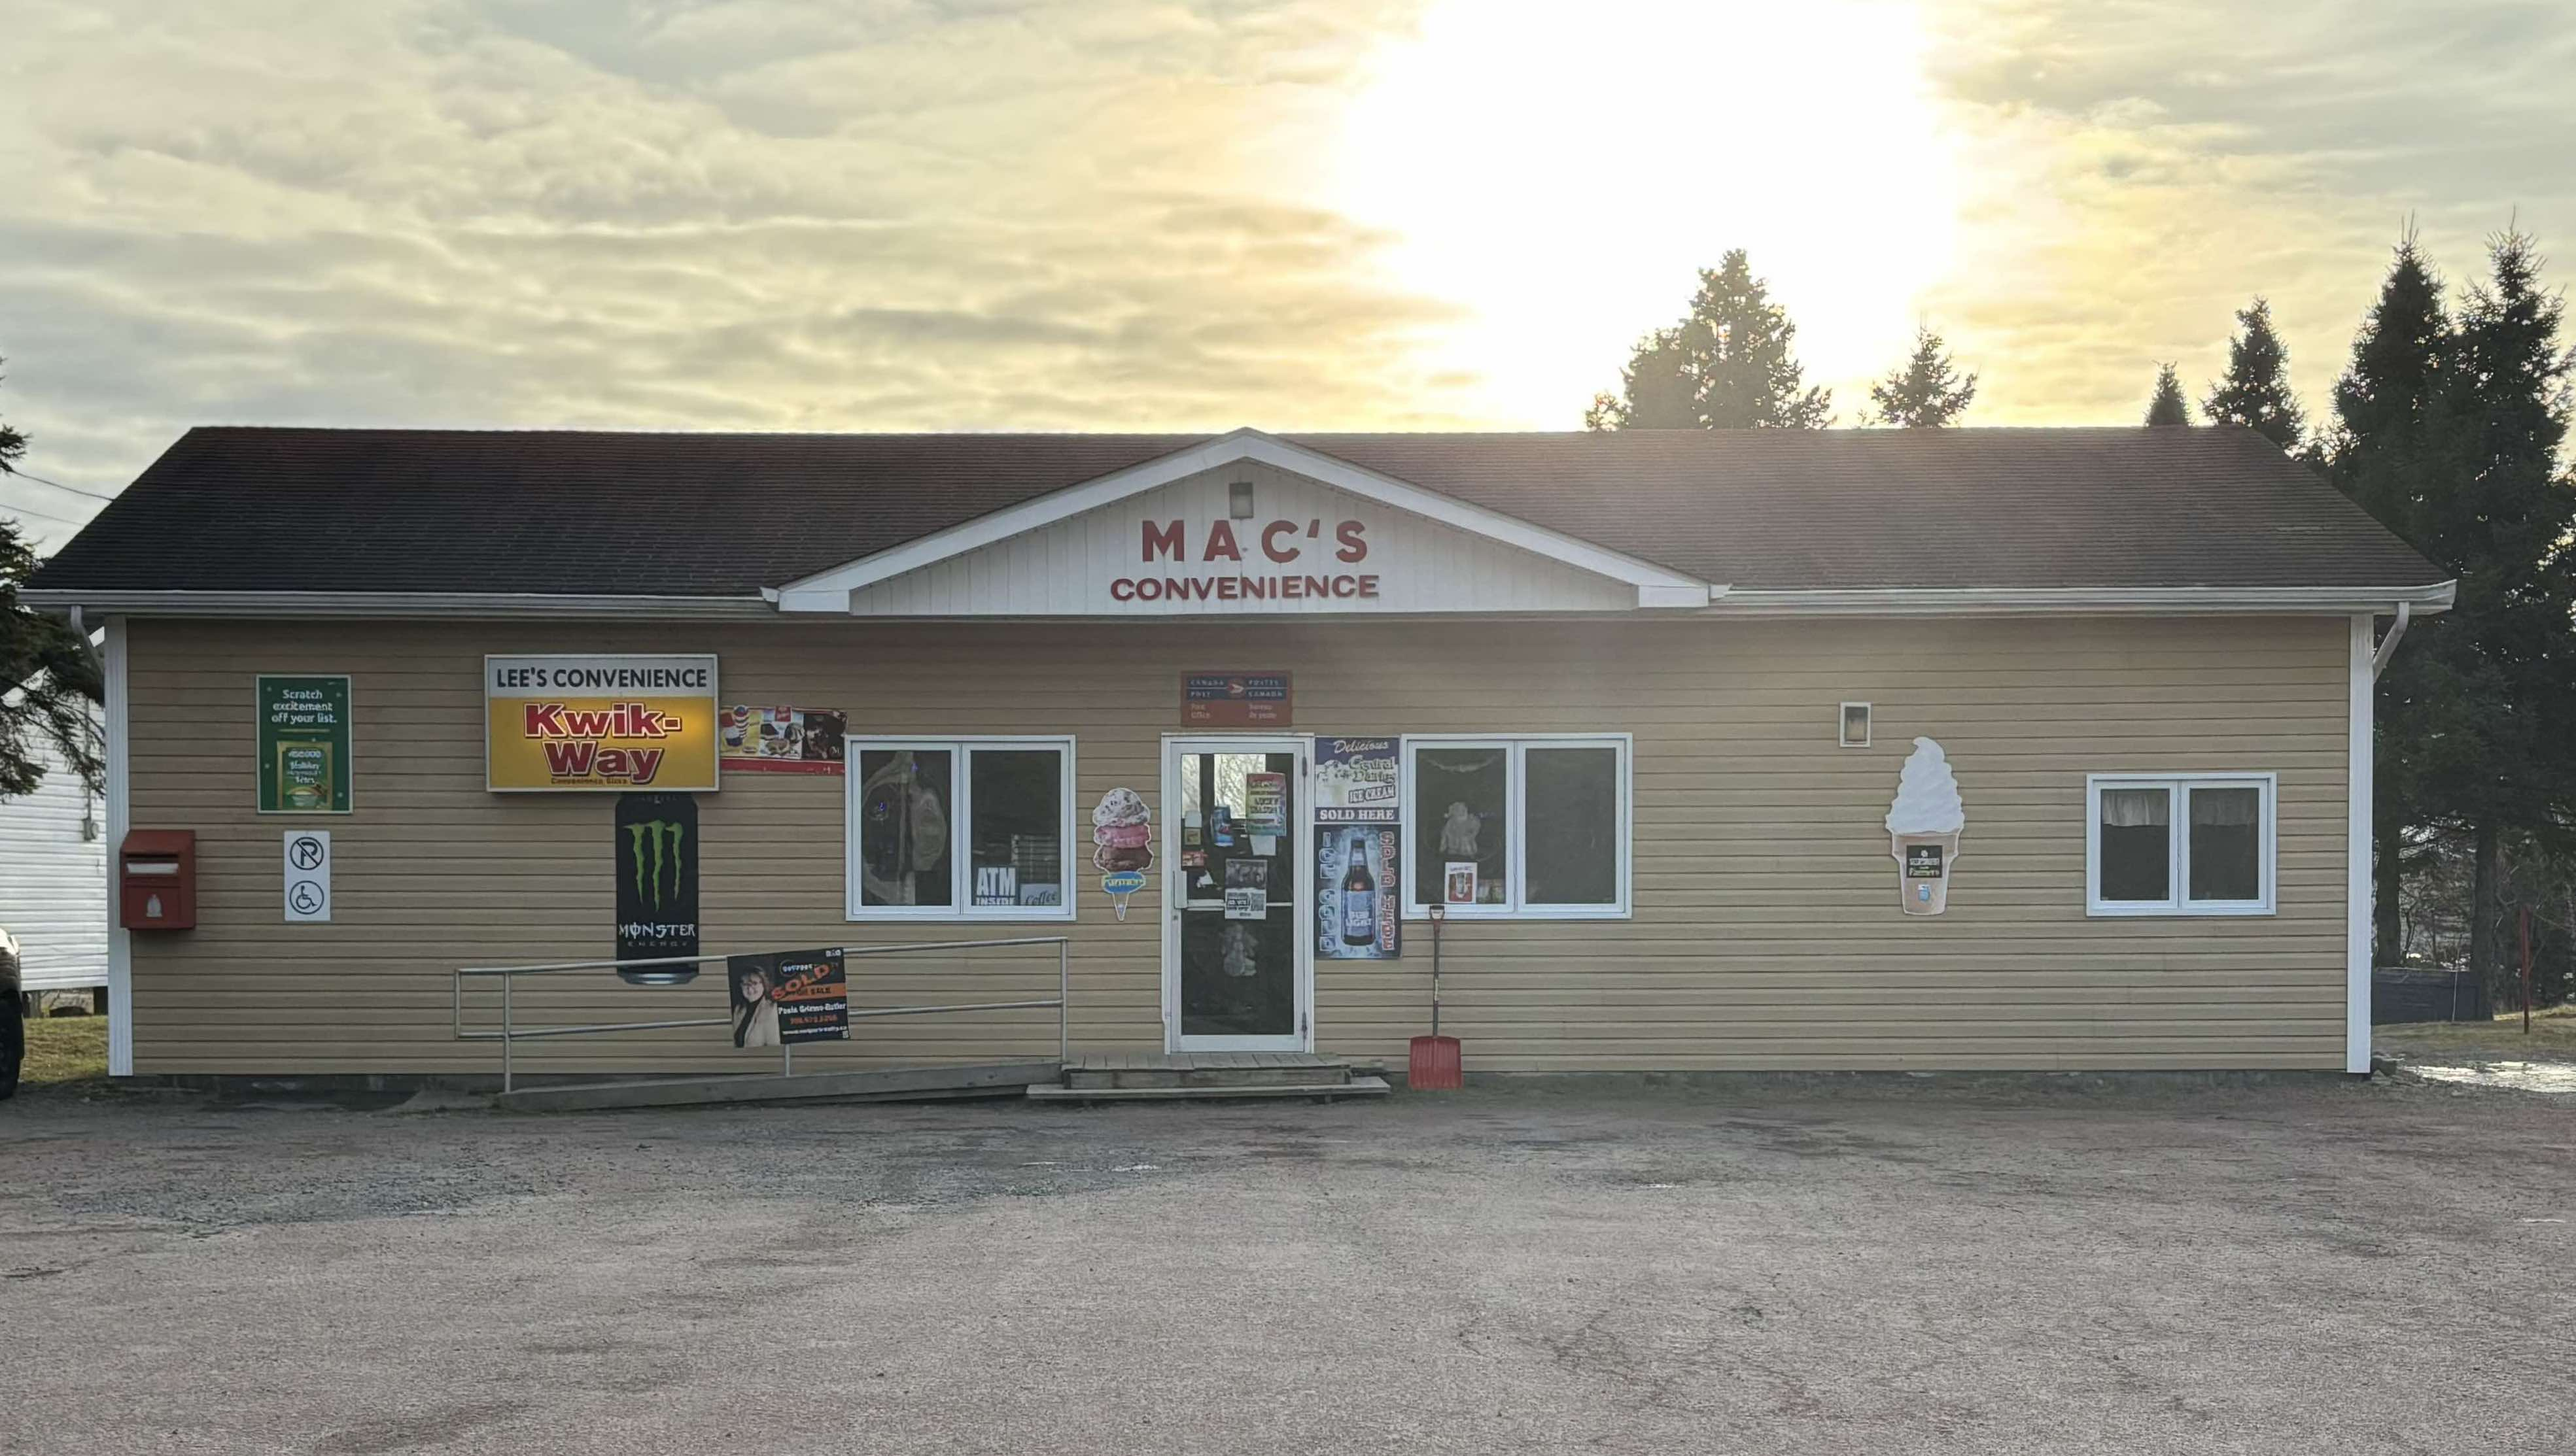
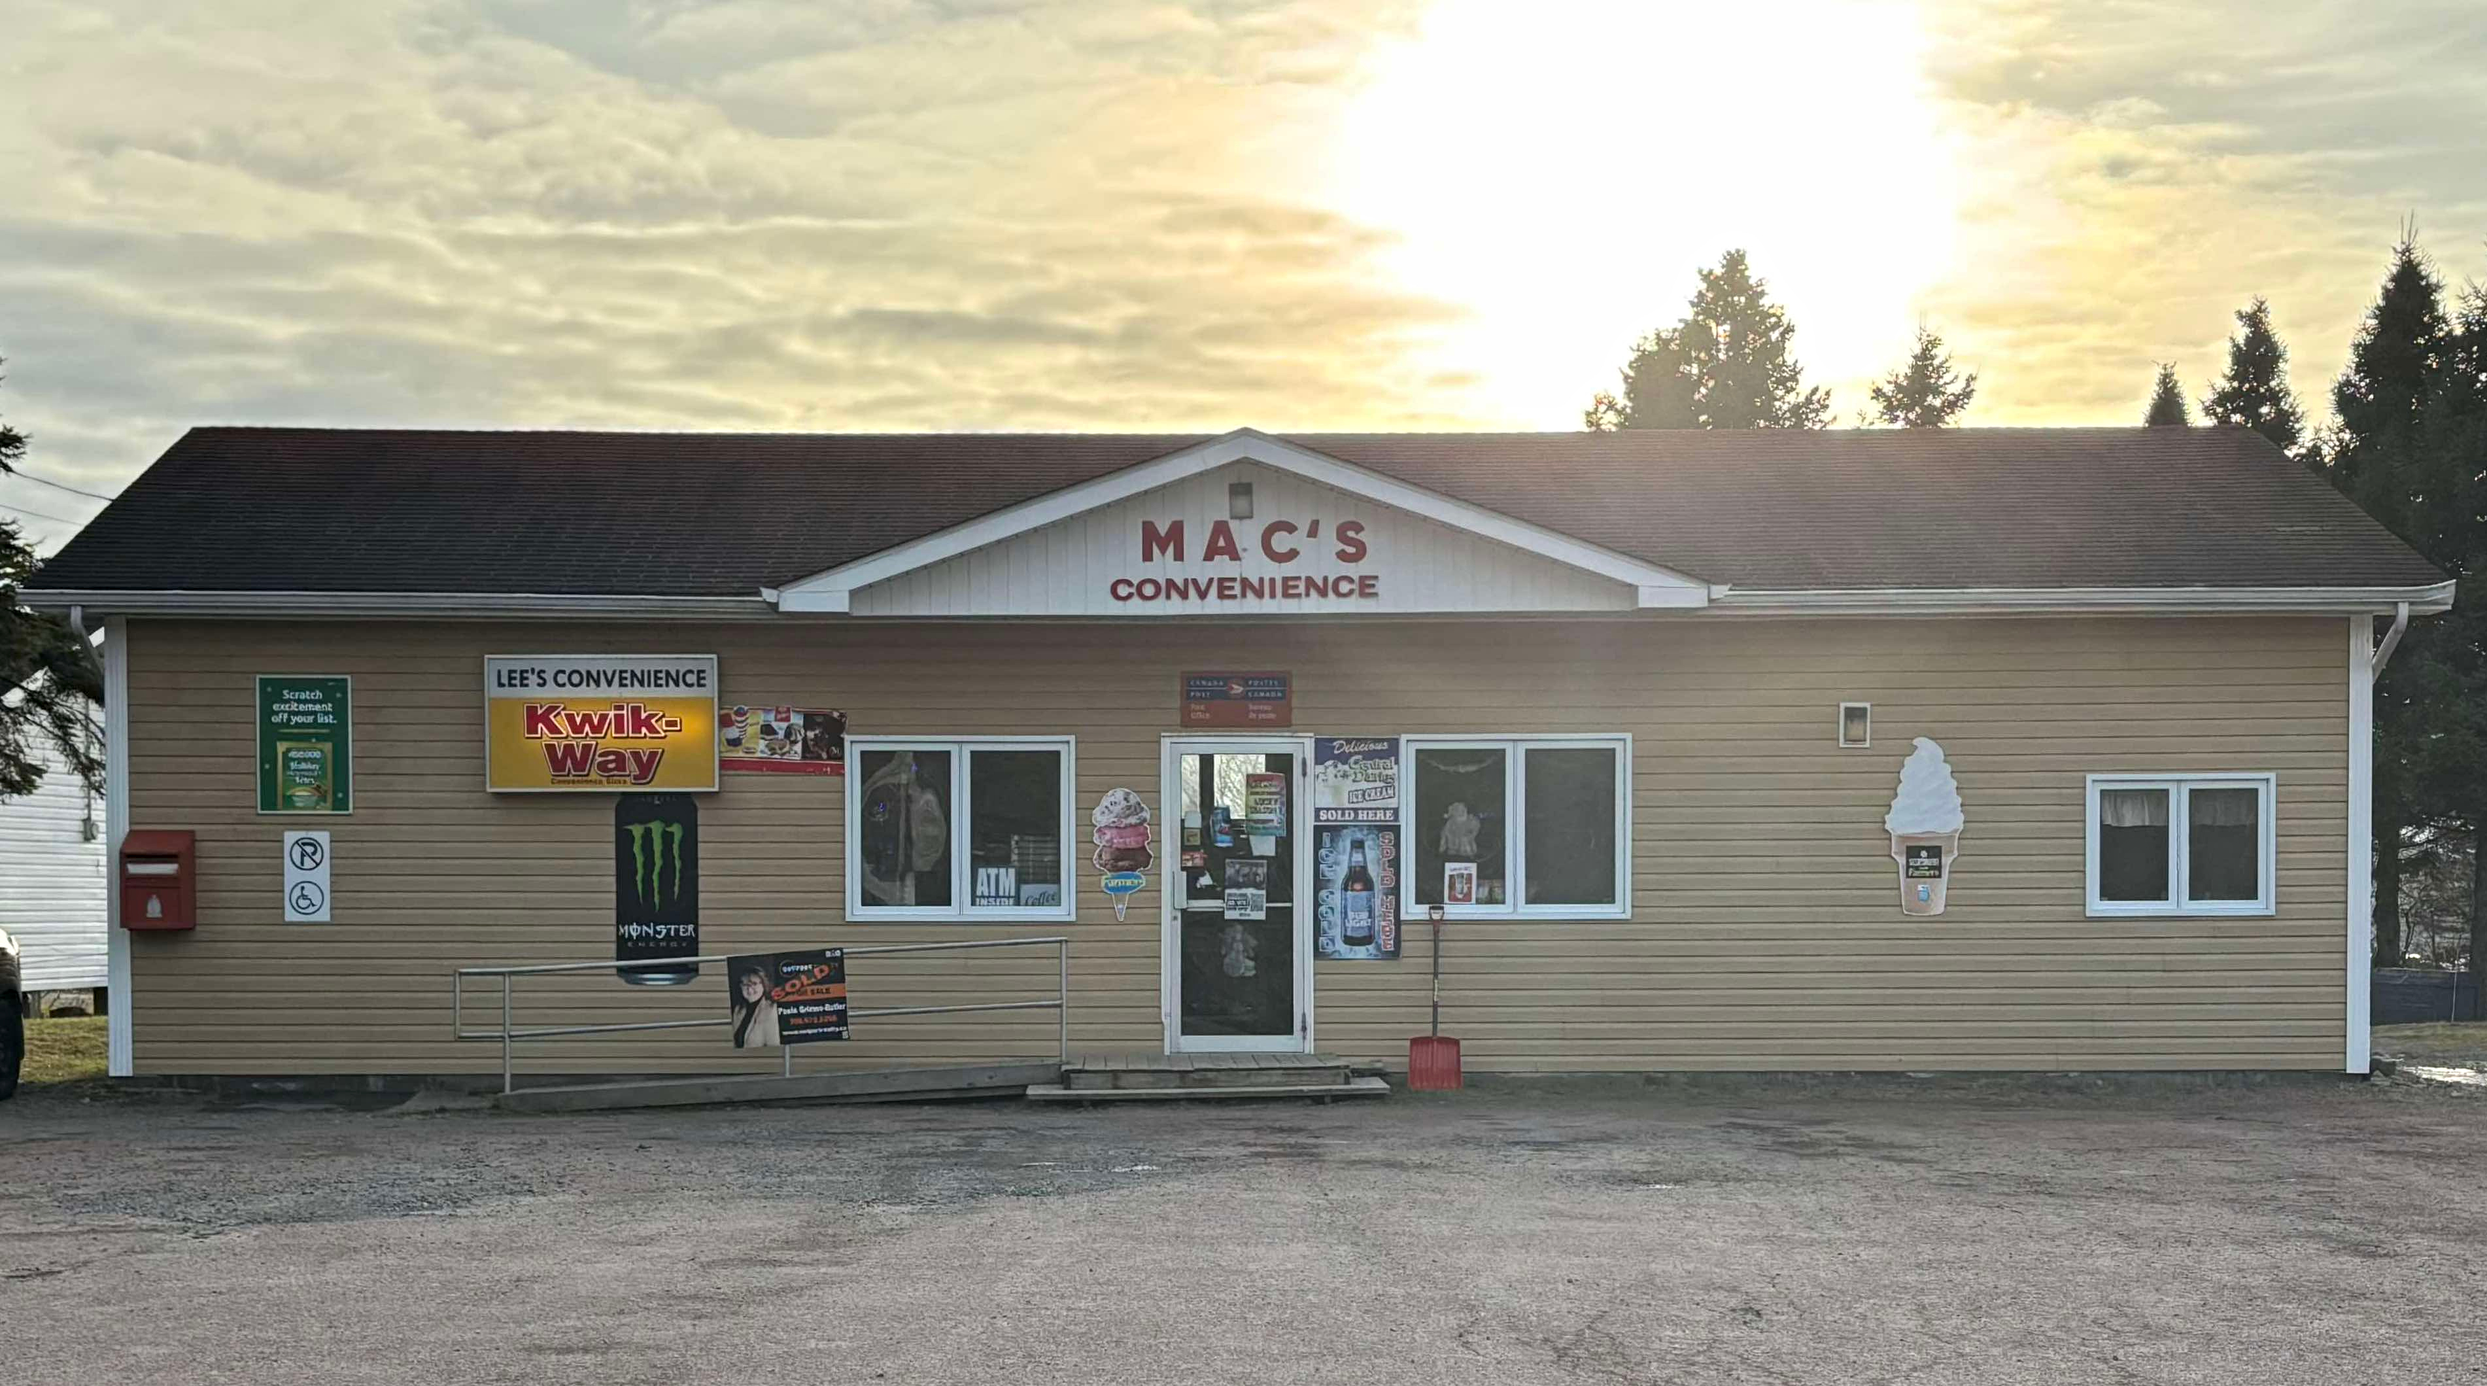
- experimenting with landing page image.
- named updates section to announcements.

diff --git a/index.html b/index.html
@@ -14,7 +14,7 @@
 	<!-- Top box -->
 		<!-- Logo & Site Name -->
 		<div class="placeholder">
-			<div class="parallax-window" data-parallax="scroll" data-image-src="img/macs1.jpg">
+			<div class="parallax-window" data-parallax="scroll" data-image-src="img/test.jpg">
 				<div class="tm-header">
 					<div class="row tm-header-inner">
 						<div class="col-md-6 col-12">
@@ -27,7 +27,7 @@
 						<nav class="col-md-6 col-12 tm-nav">
 							<ul class="tm-nav-ul">
 								<li class="tm-nav-li"><a href="#about" class="tm-nav-link">About</a></li>
-								<li class="tm-nav-li"><a href="#updates" class="tm-nav-link">Updates</a></li>
+								<li class="tm-nav-li"><a href="#announcements" class="tm-nav-link">Announcements</a></li>
 								<li class="tm-nav-li"><a href="#contact" class="tm-nav-link">Contact</a></li>
 								<script>
 									document.querySelectorAll('a[href^="#"]').forEach(anchor => {
@@ -112,8 +112,8 @@
 		</div>
 
 		<div>
-			<header class="row tm-welcome-section" id="updates">
-				<h2 class="col-12 text-center tm-section-title">Store Updates</h2>
+			<header class="row tm-welcome-section" id="announcements">
+				<h2 class="col-12 text-center tm-section-title">Store Announcements</h2>
 				<p class="col-12 text-center fb-description">See our Facebook page below for updates on sales, new products, and more.</p>
 			</header>
 
